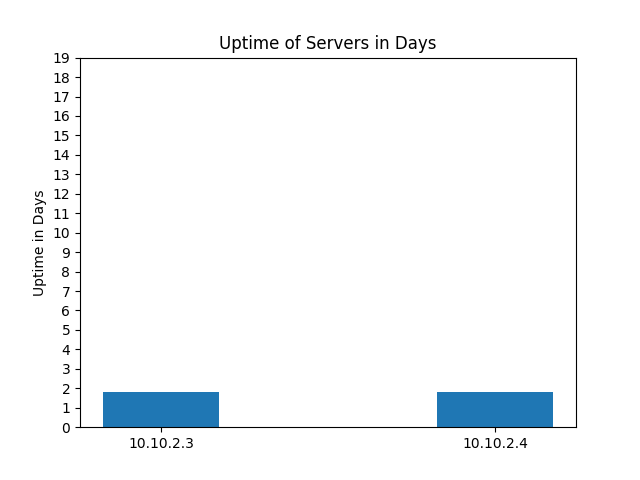
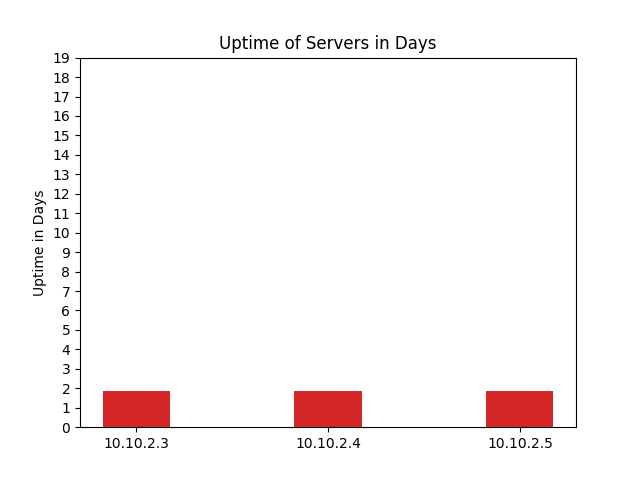
flask and upload script

Changed region(s): [[0.6562, 0.8125, 0.875, 0.9375], [0.1562, 0.8125, 0.3438, 0.9375], [0.4375, 0.8125, 0.5625, 0.9375]]

diff --git a/flaskapi/graphapp01.py b/flaskapi/graphapp01.py
@@ -36,7 +36,7 @@ def graphin():
     svruptime = tuple(svruptime)
 
     # graphin
-    N = 2 # total number of bars
+    N = 3 # total number of bars
     ind = np.arange(N)    # the x locations for the groups
     width = 0.35       # the width of the bars: can also be len(x) sequence
     p1 = plt.bar(ind, svruptime, width)
